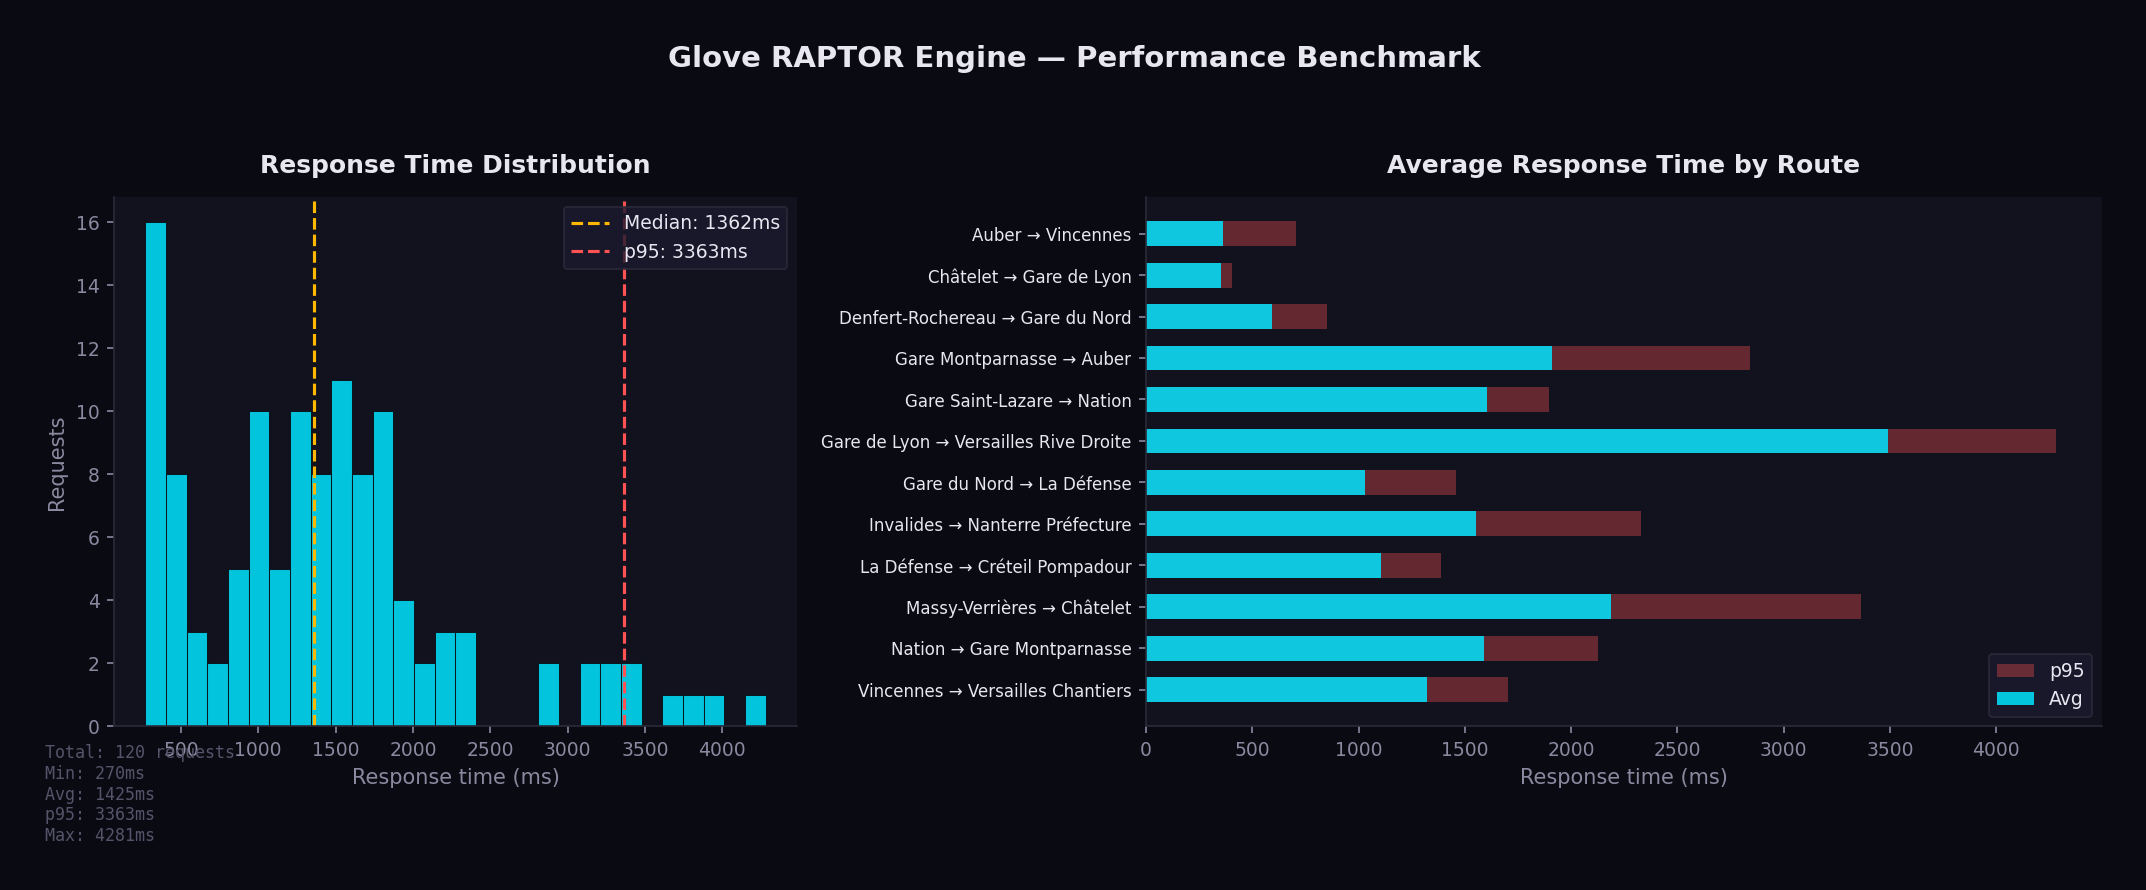
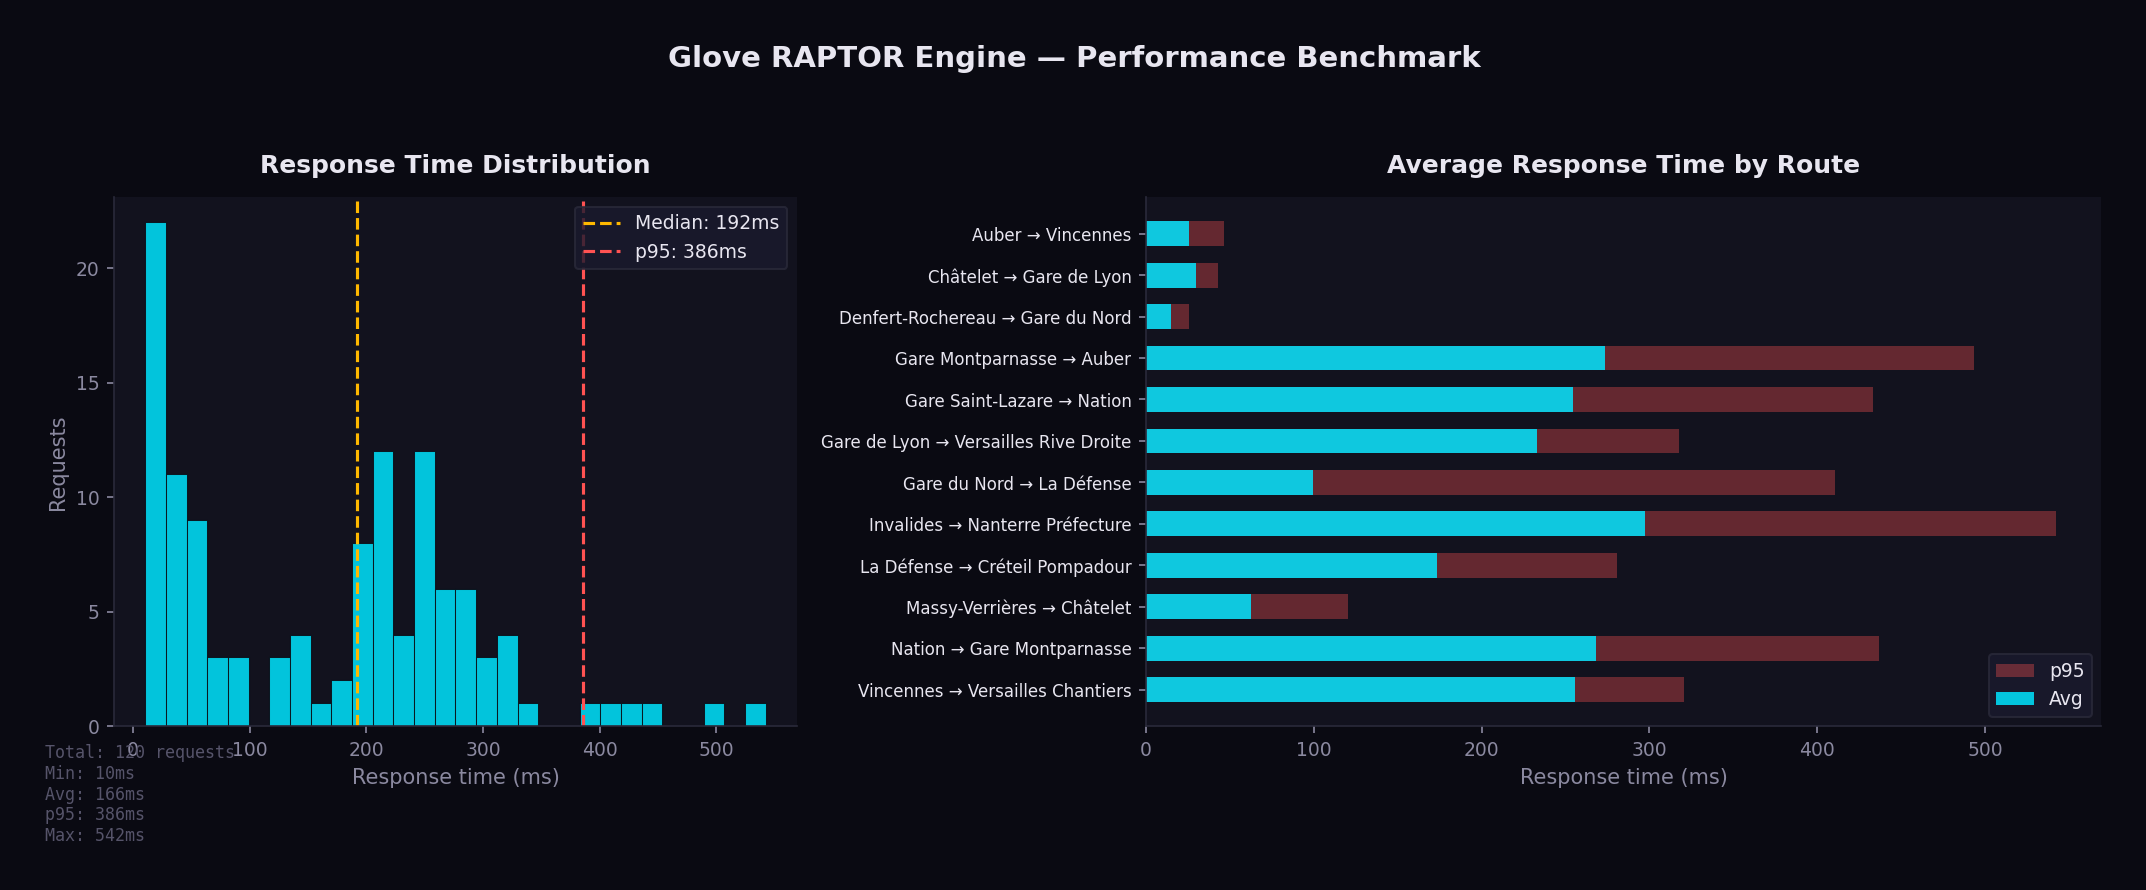
Refresh benchmark and dataset figures in the docs
New end-to-end run (12 routes x 10 rounds, sequential, 2026-10-06 08:30
departure, release build): avg 166 ms, median 192 ms, p95 386 ms, down
from 1,425 / 1,362 / 3,363 ms in May. Adds per-route figures and a
4-thread concurrent run (~7.8 req/s, CPU-bound on a 4-vCPU host shared
with Valhalla).

- performance.md: new results, concurrency section, memory table
- routing-stats.md / gtfs-overview.md: current IDFM dataset counts
- README: median claim now matches the measured end-to-end figure
- benchmark.py / development.md: script lives in scripts/, chart
  defaults to book/src/images/benchmark.png

diff --git a/scripts/benchmark.py b/scripts/benchmark.py
@@ -7,7 +7,7 @@ origin/destination pairs across Ile-de-France, measures response times,
 and generates a performance report image.
 
 Usage:
-    python3 bin/benchmark.py [--host HOST] [--port PORT] [--rounds ROUNDS]
+    python3 scripts/benchmark.py [--host HOST] [--port PORT] [--rounds ROUNDS] [--datetime YYYYMMDDTHHMMSS]
 
 Requires: matplotlib (pip install matplotlib)
 """
@@ -229,7 +229,7 @@ def main():
     parser.add_argument("--rounds", type=int, default=5, help="Number of rounds (default: 5)")
     parser.add_argument("--concurrency", type=int, default=4, help="Concurrent threads (default: 4)")
     parser.add_argument("--datetime", default="20260406T083000", help="Departure datetime")
-    parser.add_argument("--output", default="docs/benchmark.png", help="Output image path")
+    parser.add_argument("--output", default="book/src/images/benchmark.png", help="Output image path")
     args = parser.parse_args()
 
     base_url = f"http://{args.host}:{args.port}"

diff --git a/book/src/operations/performance.md b/book/src/operations/performance.md
@@ -4,32 +4,65 @@
 
 The RAPTOR engine holds all GTFS data in memory with optimized data structures, so the core round-based scan is fast (single-digit to low-tens of milliseconds). The **end-to-end** response time of `GET /api/journeys/public_transport` is higher because each request also runs the **iterative diverse search** (RAPTOR is re-run up to `max_journeys` times with pattern exclusion to produce varied alternatives) and **enriches transfers via Valhalla** (one walking-route call per transfer).
 
-Benchmark across 12 origin/destination pairs covering Ile-de-France (10 rounds, single-threaded, weekday morning departure), with the default `config.yaml` (`max_journeys: 5`, `prefer_rail: true`):
+Benchmark across 12 origin/destination pairs covering Ile-de-France (10 rounds, one request at a time, Tuesday 2026-10-06 08:30 departure), with the default `config.yaml` (`max_journeys: 5`, `prefer_rail: true`). Measured on 2026-10-01 with the release build on a 4-vCPU / 7 GB WSL2 machine that also hosts Valhalla and the benchmark client:
 
 ![Benchmark](../images/benchmark.png)
 
 | Metric | Value |
 |--------|-------|
-| Min | 270 ms |
-| Avg | 1,425 ms |
-| Median | 1,362 ms |
-| p95 | 3,363 ms |
-| Max | 4,281 ms |
+| Min | 10 ms |
+| Avg | 166 ms |
+| Median | 192 ms |
+| p95 | 386 ms |
+| p99 | 493 ms |
+| Max | 542 ms |
+
+| Route | Avg | p95 | Journeys |
+|-------|----:|----:|---------:|
+| Denfert-Rochereau → Gare du Nord | 15 ms | 26 ms | 1 |
+| Auber → Vincennes | 25 ms | 46 ms | 1 |
+| Châtelet → Gare de Lyon | 30 ms | 43 ms | 2 |
+| Massy-Verrières → Châtelet | 62 ms | 120 ms | 3 |
+| Gare du Nord → La Défense | 100 ms | 410 ms | 2 |
+| La Défense → Créteil Pompadour | 174 ms | 281 ms | 7 |
+| Gare de Lyon → Versailles Rive Droite | 233 ms | 318 ms | 5 |
+| Gare Saint-Lazare → Nation | 254 ms | 433 ms | 5 |
+| Vincennes → Versailles Chantiers | 255 ms | 320 ms | 6 |
+| Nation → Gare Montparnasse | 268 ms | 437 ms | 5 |
+| Gare Montparnasse → Auber | 273 ms | 493 ms | 5 |
+| Invalides → Nanterre Préfecture | 298 ms | 542 ms | 7 |
 
 ```admonish note
-These are **end-to-end** API times (iterative diverse search + Valhalla transfer enrichment), not the bare RAPTOR scan. The query is bounded by **target + max-duration pruning** (`raptor_query_bounded`): the scan stops relaxing stops that can no longer improve the journey to the destination within `max_duration`. This roughly halved suburban routes (e.g. Massy-Verrières → Châtelet). The remaining cost is dominated by the **number of alternatives** (`max_journeys`): central routes that return 5–7 distinct journeys re-run RAPTOR several times and are the slowest. Lowering `max_journeys` reduces response time further.
+These are **end-to-end** API times (iterative diverse search + Valhalla transfer enrichment), not the bare RAPTOR scan. The cost follows the **number of alternatives**: routes that settle on 1–2 journeys answer in tens of milliseconds, while those returning 5–7 distinct journeys re-run RAPTOR several times and enrich each transfer through Valhalla, landing in the 200–300 ms range. Lowering `max_journeys` reduces response time further. The first round is slower (~230 ms avg) while the walk-leg cache and Valhalla warm up.
 ```
+
+```admonish info title="Previous run (2026-05-30)"
+The previous published run measured avg 1,425 ms / median 1,362 ms / p95 3,363 ms. The two runs are not strictly comparable: the GTFS dataset is larger (496k trips vs 391k), the host may differ, and the engine changed since then: request-latency work (`861f6bb`) and pooled RAPTOR buffers with FIFO boarding pruning (`b0677b1`).
+```
+
+### Concurrent load
+
+Same 12 routes, 10 rounds, **4 client threads** (one per Actix worker) on the same machine:
+
+| Metric | Sequential | 4 threads |
+|--------|-----------:|----------:|
+| Avg latency | 166 ms | ~400–600 ms |
+| p95 latency | 386 ms | ~1.3 s |
+| Throughput | ~5–6 req/s | ~7.8 req/s |
+
+On 4 vCPUs shared by the RAPTOR workers, Valhalla and the load generator, concurrency buys throughput (~1.5×) at the cost of per-request latency: the machine is CPU-bound, so these numbers are a floor, not a capacity figure for a dedicated server. Expect run-to-run variance of ±30 % on this kind of host.
 
 ## Running Benchmarks
 
 ```bash
-python3 scripts/benchmark.py --rounds 10 --concurrency 1 --datetime 20260529T083000
+python3 scripts/benchmark.py --rounds 10 --concurrency 1 --datetime 20261006T083000 \\
+  --output book/src/images/benchmark.png
 ```
 
 The benchmark script:
 1. Sends requests to 12 representative origin/destination pairs (stop-to-stop)
 2. Measures response times across multiple rounds
-3. Prints a summary table and generates a chart (`--output`, default `docs/benchmark.png`)
+3. Prints a summary table and generates a chart (`--output`, default `book/src/images/benchmark.png`)
 
 ```admonish tip
 Pick a `--datetime` that falls inside the loaded GTFS service window (otherwise no journeys are found). For high request rates, set `server.rate_limit: 0` in `config.yaml` so the rate limiter does not reject the burst.
@@ -68,19 +101,22 @@ All Pareto-optimal journeys from a single RAPTOR run are collected before the al
 The RAPTOR index is serialized to disk with a fingerprint derived from the GTFS data. On restart, if the fingerprint matches, the cached index is loaded in sub-second time instead of rebuilding (10-30 seconds).
 
 ### Pattern Grouping
-Trips with identical stop sequences share a single pattern. For the Ile-de-France dataset this collapses ~391,000 trips into ~10,000 patterns, cutting the entities the algorithm scans by an order of magnitude.
+Trips with identical stop sequences share a single pattern. For the Ile-de-France dataset this collapses ~496,000 trips into ~10,000 patterns, cutting the entities the algorithm scans by an order of magnitude.
 
 ## Memory Usage
 
-All GTFS data is held in memory. For the Ile-de-France dataset (as reported by `GET /api/status` and `GET /api/metrics`):
+All GTFS data is held in memory. For the Ile-de-France dataset loaded on 2026-09-28 (as reported by `GET /api/gtfs/status` and `GET /api/metrics`, measured after the benchmark above):
 
 | Data | Approximate Size |
 |------|-----------------|
-| Stops | ~53,700 entries |
+| Stops | ~53,400 entries |
 | Routes | ~2,000 entries |
-| Trips | ~391,000 entries |
-| Stop times | ~8,370,000 entries |
-| Transfers | ~202,000 entries |
+| Trips | ~496,000 entries |
+| Stop times | ~11,020,000 entries |
+| Transfers | ~192,000 entries |
 | Patterns | ~10,000 groups |
-| Resident memory (RSS) | ~265 MB |
-| Virtual memory | ~480 MB |
+| Resident memory (RSS) | ~405 MB |
+
+```admonish note
+RSS is up from ~265 MB in the previous measurement, in line with the dataset growth (+27 % trips, +32 % stop times). It covers the whole process: RAPTOR index, BAN address index, traffic overlay and the per-thread pooled search buffers. Virtual memory (~2.4 GB) is reserved address space, not a footprint.
+```

diff --git a/book/src/idfm/gtfs-overview.md b/book/src/idfm/gtfs-overview.md
@@ -14,28 +14,28 @@ All GTFS data is loaded into memory at startup. There is no database — the ent
 
 | File | Records | What it contains |
 |------|--------:|-----------------|
-| **agencies** | 61 | Transit operators (RATP, SNCF, local bus companies...) |
-| **routes** | 2,011 | Transit lines — each bus line, metro line, or RER line is a route |
-| **stops** | 53,705 | Physical locations where passengers board or alight |
-| **trips** | 390,650 | Individual vehicle runs — one bus doing its morning route is one trip |
-| **stop_times** | 8,367,732 | The schedule: what time each trip arrives/departs at each stop |
-| **transfers** | 201,582 | Walking connections between nearby stops (for changing lines) |
-| **calendars** | 744 | Service patterns: which days each schedule runs (weekdays, weekends...) |
-| **calendar_dates** | 1,150 | Exceptions to the calendar (holidays, strikes, special events...) |
+| **agencies** | 62 | Transit operators (RATP, SNCF, local bus companies...) |
+| **routes** | 2,025 | Transit lines — each bus line, metro line, or RER line is a route |
+| **stops** | 53,446 | Physical locations where passengers board or alight |
+| **trips** | 496,393 | Individual vehicle runs — one bus doing its morning route is one trip |
+| **stop_times** | 11,019,607 | The schedule: what time each trip arrives/departs at each stop |
+| **transfers** | 192,366 | Walking connections between nearby stops (for changing lines) |
+| **calendars** | 1,010 | Service patterns: which days each schedule runs (weekdays, weekends...) |
+| **calendar_dates** | 2,140 | Exceptions to the calendar (holidays, strikes, special events...) |
 
 ### Understanding the scale
 
 To put these numbers in perspective:
 
-- **10.9 million stop times** means the dataset contains nearly 11 million individual "a vehicle stops here at this time" records. This is the bulk of the data.
-- **390,650 trips** represent every individual vehicle departure across all lines, all day, all week. A single metro line might have hundreds of trips per day.
-- **201,582 transfers** define where passengers can walk between stops to change lines. For example, walking from a metro platform to a nearby bus stop.
+- **11 million stop times** means the dataset contains nearly 11 million individual "a vehicle stops here at this time" records. This is the bulk of the data.
+- **496,393 trips** represent every individual vehicle departure across all lines, all day, all week. A single metro line might have hundreds of trips per day.
+- **192,366 transfers** define where passengers can walk between stops to change lines. For example, walking from a metro platform to a nearby bus stop.
 
 ## Understanding GTFS Objects
 
 ### Agencies
 
-An **agency** is a transit operator. Ile-de-France has 61 agencies, from large operators like RATP (Paris metro, buses, tramways) to small local bus companies covering specific towns.
+An **agency** is a transit operator. Ile-de-France has 62 agencies, from large operators like RATP (Paris metro, buses, tramways) to small local bus companies covering specific towns.
 
 ### Routes
 

diff --git a/book/src/idfm/routing-stats.md b/book/src/idfm/routing-stats.md
@@ -8,36 +8,38 @@ After loading and pre-processing the GTFS data, Glove builds a RAPTOR index with
 
 | Metric | Value |
 |--------|------:|
-| Stops indexed | 53,705 |
-| Trips loaded | 390,650 |
-| Stop times | 8,367,732 |
-| Patterns (grouped trips) | ~10,000 |
-| Transfer pairs | 201,582 |
+| Stops indexed | 53,446 |
+| Trips loaded | 496,393 |
+| Stop times | 11,019,607 |
+| Patterns (grouped trips) | 10,001 |
+| Transfer pairs | 192,366 |
 | Index build time | 10-30 seconds |
-| RAM usage (resident) | ~265 MB |
+| RAM usage (resident) | ~405 MB |
 
 ```admonish info title="Pattern Grouping"
-Trips with identical stop sequences are grouped into **patterns**. For the IDFM dataset, ~391,000 trips are reduced to ~10,000 patterns — a **~39x** reduction that directly speeds up the RAPTOR scan phase.
+Trips with identical stop sequences are grouped into **patterns**. For the IDFM dataset, ~496,000 trips are reduced to ~10,000 patterns — a **~50x** reduction that directly speeds up the RAPTOR scan phase.
 ```
 
 ## Query Performance
 
-Benchmark across 12 representative origin/destination pairs covering Ile-de-France (10 rounds, single-threaded):
+Benchmark across 12 representative origin/destination pairs covering Ile-de-France (10 rounds, one request at a time, measured 2026-10-01 — end-to-end API time including Valhalla transfer enrichment):
 
 ![Benchmark](../images/benchmark.png)
 
 | Metric | Value |
 |--------|------:|
-| Min | 215 ms |
-| Average | 371 ms |
-| Median | 370 ms |
-| p95 | 515 ms |
-| Max | 531 ms |
+| Min | 10 ms |
+| Average | 166 ms |
+| Median | 192 ms |
+| p95 | 386 ms |
+| Max | 542 ms |
+
+Per-route figures, concurrent load and methodology: see [Performance](../operations/performance.md).
 
 Run the benchmark:
 
 ```bash
-python3 bin/benchmark.py --rounds 10 --concurrency 1
+python3 scripts/benchmark.py --rounds 10 --concurrency 1 --datetime 20261006T083000
 ```
 
 ## Indoor Routing Coverage

diff --git a/README.md b/README.md
@@ -10,7 +10,7 @@
 
 **A fast multi-modal journey planner for the whole Île-de-France network — one Rust binary, no database.**
 
-Glove loads GTFS into memory, builds a [RAPTOR](https://www.microsoft.com/en-us/research/wp-content/uploads/2012/01/raptor_alenex.pdf) index and answers journey searches in **~30 ms** (median, [benchmark](https://ltoinel.github.io/Glove/operations/performance.html)) over every metro, RER, train, tram and bus line of the region. Walking, cycling and driving come from [Valhalla](https://github.com/valhalla/valhalla); real-time delays, operator-declared disruptions and live road traffic are layered on top at query time. A React portal puts it all on a map.
+Glove loads GTFS into memory, builds a [RAPTOR](https://www.microsoft.com/en-us/research/wp-content/uploads/2012/01/raptor_alenex.pdf) index and answers journey searches in **~190 ms** end to end (median, alternatives and walking transfers included, [benchmark](https://ltoinel.github.io/Glove/operations/performance.html)) over every metro, RER, train, tram and bus line of the region. Walking, cycling and driving come from [Valhalla](https://github.com/valhalla/valhalla); real-time delays, operator-declared disruptions and live road traffic are layered on top at query time. A React portal puts it all on a map.
 
 ![Glove screenshot](book/src/images/screenshot.jpg)
 

diff --git a/book/src/contributing/development.md b/book/src/contributing/development.md
@@ -92,7 +92,7 @@ All checks must pass before merging.
 RUST_LOG=debug cargo run
 
 # Run benchmarks
-python3 bin/benchmark.py --rounds 10
+python3 scripts/benchmark.py --rounds 10 --concurrency 1 --datetime <YYYYMMDDTHHMMSS in the GTFS window>
 
 # Start Valhalla for walk/bike/car routing
 bin/valhalla.sh
